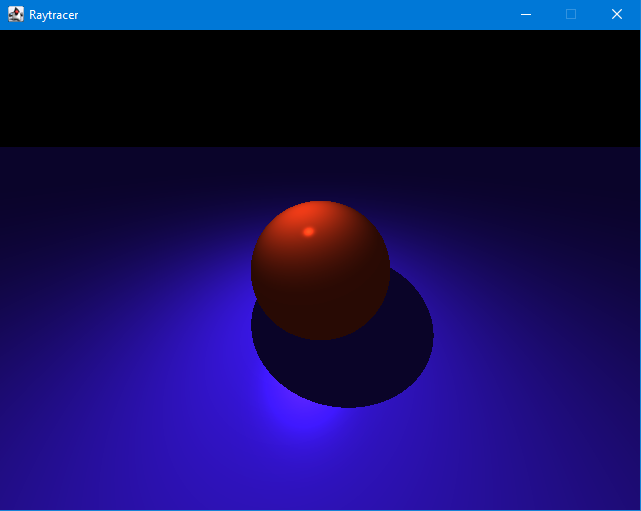
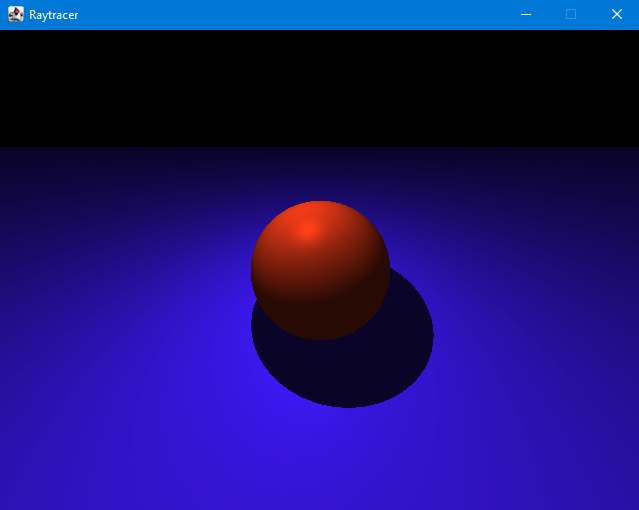
corrected specularity calculations

diff --git a/src/graphics/Renderer.java b/src/graphics/Renderer.java
@@ -125,15 +125,15 @@ public class Renderer {
 				}
 
 				// for ambient lighting
-				if (lightValue < 0.1f) {
-					lightValue = 0.1f;
+				if (lightValue < 0.001f) {
+					lightValue = 0.001f;
 				}
 
 				// if there is no shadow then we can mix light color and object color
 				if (shadowed == false) {
-					R += (int) ((float) objectColor.red * lightValue * (float) light.color.red * lightValue / 255);
-					G += (int) ((float) objectColor.green * lightValue * (float) light.color.green * lightValue / 255);
-					B += (int) ((float) objectColor.blue * lightValue * (float) light.color.blue * lightValue / 255);
+					R += (int) ((float) objectColor.red * lightValue * (float) light.color.red / 255);
+					G += (int) ((float) objectColor.green * lightValue * (float) light.color.green / 255);
+					B += (int) ((float) objectColor.blue * lightValue * (float) light.color.blue / 255);
 
 					if (shininess > 0.0f) {
 						// calculating the reflected ray
@@ -143,12 +143,12 @@ public class Renderer {
 						Vector3f reflectedRay = new Vector3f(incidentRay.x - normalDirVector.x, incidentRay.y - normalDirVector.y, incidentRay.z - normalDirVector.z);
 						Vector3f toCameraDirection = new Vector3f(camera.position.x - intersectingPoint.x, camera.position.y - intersectingPoint.y, camera.position.z - intersectingPoint.z).normalize();
 						// calculating specularity
-						float specularity = (float) Math.pow(Math.max(new Vector3f().dot(toCameraDirection, reflectedRay), 0.0f), shininess);
+						float specularity = (float) Math.pow(Math.max(new Vector3f().dot(toCameraDirection, reflectedRay), 0.0f), 10);
 						
-						// mixing specularity with object color and light color
-						R += (int) ((float) objectColor.red * specularity * (float) light.color.red * specularity / 255);
-						G += (int) ((float) objectColor.green * specularity * (float) light.color.green * specularity / 255);
-						B += (int) ((float) objectColor.blue * specularity * (float) light.color.blue * specularity / 255);
+						// mixing specularity and shininess with object color and light color
+						R += (int) ((float) objectColor.red * specularity * (float) light.color.red  * shininess/ 255);
+						G += (int) ((float) objectColor.green * specularity * (float) light.color.green  * shininess/ 255);
+						B += (int) ((float) objectColor.blue * specularity * (float) light.color.blue * shininess/ 255);
 					}
 				}
 			}

diff --git a/src/window/Scene.java b/src/window/Scene.java
@@ -19,8 +19,8 @@ public class Scene {
 
 	// all the objects in the scene
 	public Camera camera = new Camera(new Vector3f(1.5f, 1.5f, -1.0f), new Vector3f(0.0f, 0.0f, 0.0f), 90);
-	public Entity sphere = new Sphere(new Vector3f(), 1, new Color(200, 50, 20, 50.0f));
-	public Entity plane = new Plane(new Vector3f(0.0f, 1.0f, 0.0f), new Vector3f(0.0f, -1.0f, 0.0f), new Color(50, 20, 200, 10.0f));
+	public Entity sphere = new Sphere(new Vector3f(), 1, new Color(200, 50, 20, 0.3f));
+	public Entity plane = new Plane(new Vector3f(0.0f, 1.0f, 0.0f), new Vector3f(0.0f, -1.0f, 0.0f), new Color(50, 20, 200, 0.1f));
 
 	// all lights in the scene
 	public Light whiteLight = new Light(new Vector3f(0, 2.0f, -0.5f), new Color(255, 255, 255));
